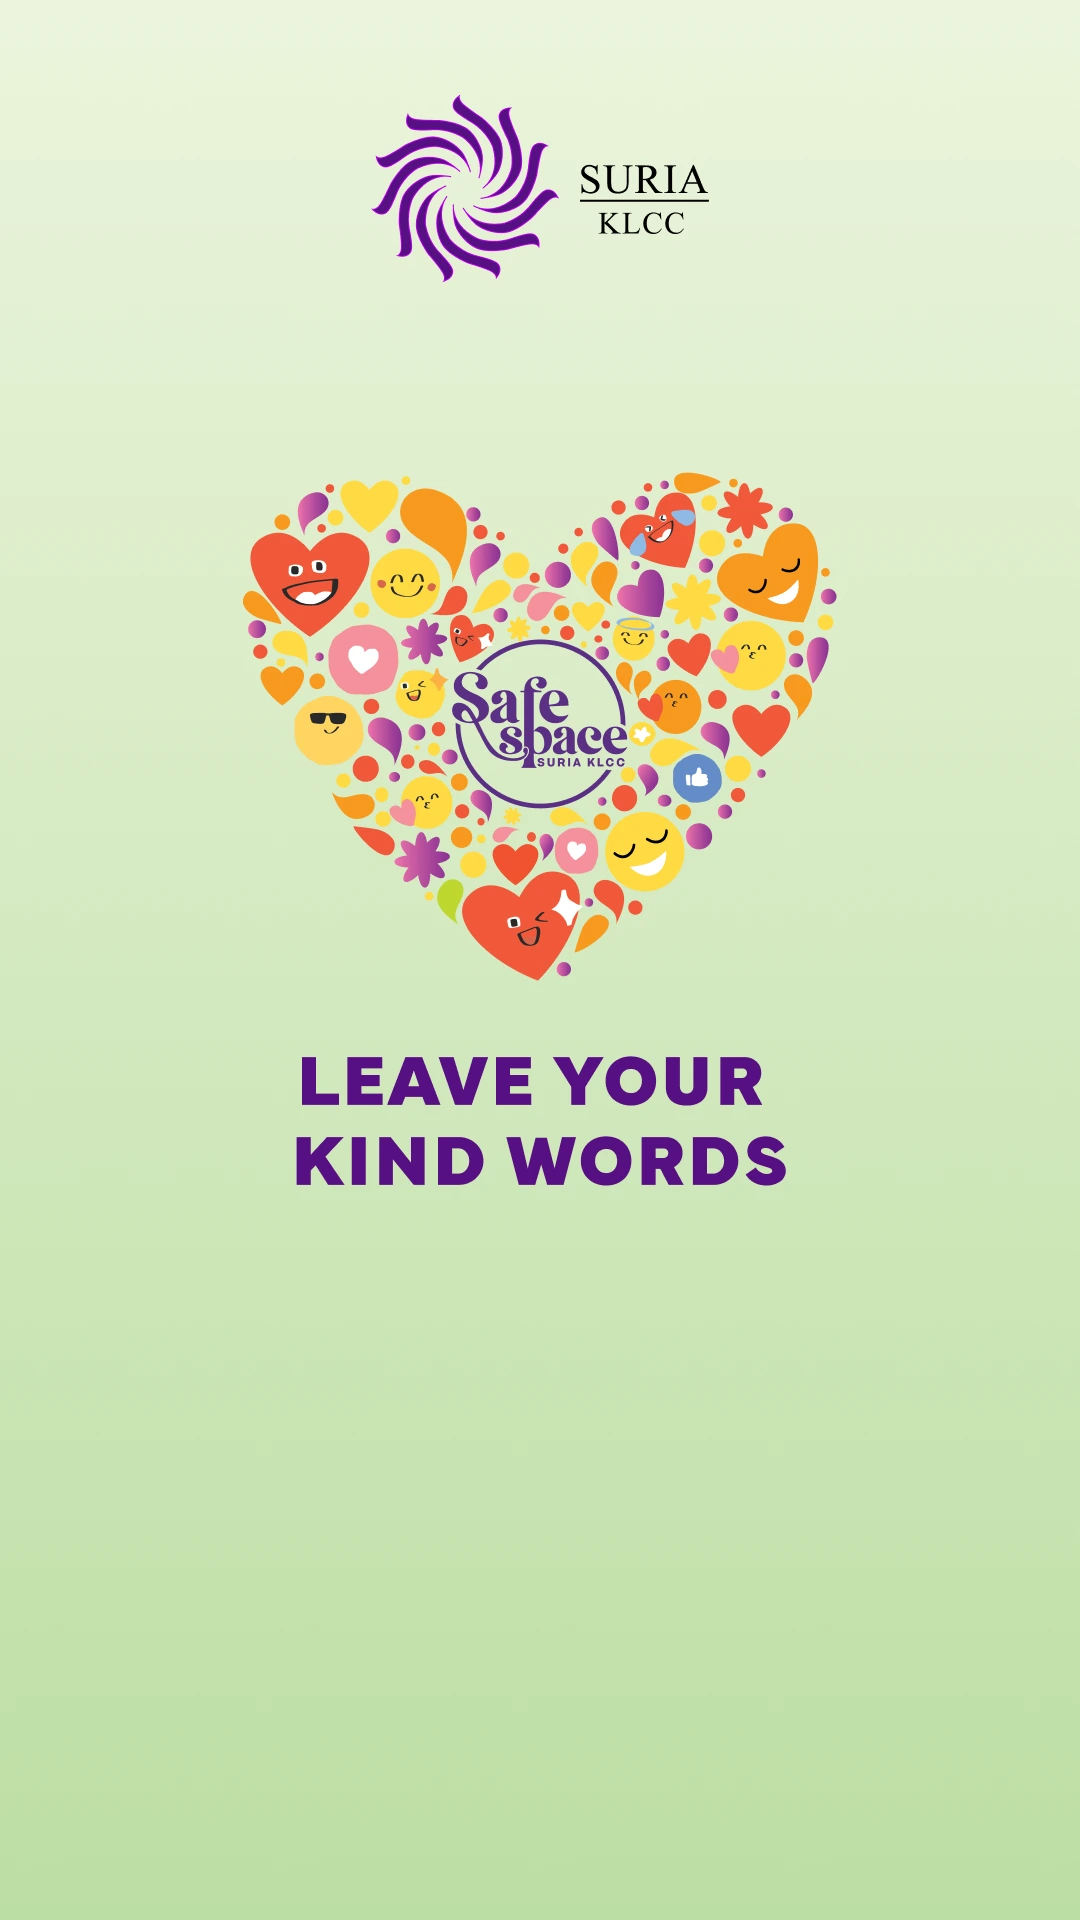
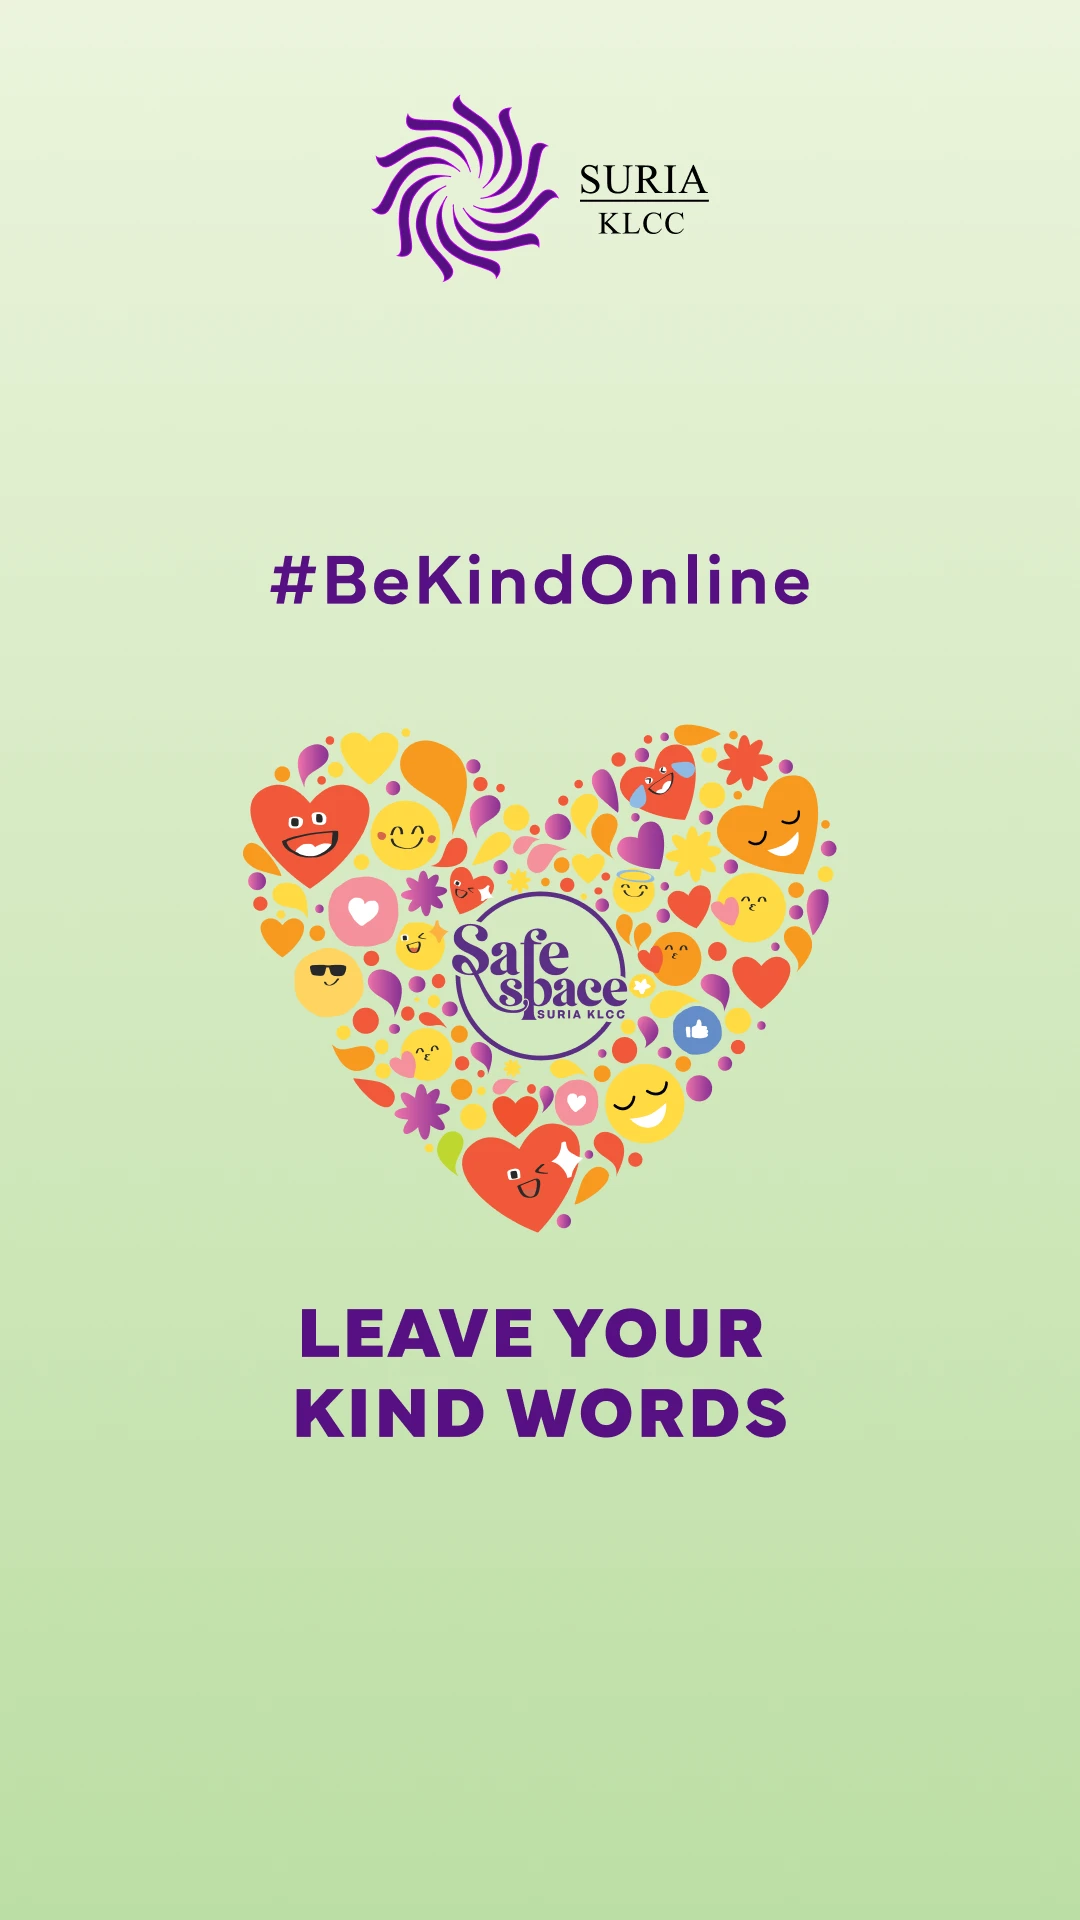
changes

Changed region(s): [[0.2139, 0.25, 0.7944, 0.75]]

diff --git a/resources/views/form.blade.php b/resources/views/form.blade.php
@@ -149,8 +149,8 @@
             </div>
             <div class="checkbox-container">
                 <input type="checkbox" id="promotions" name="promotions" required>
-                <label for="promotions"> I agree to receive marketing and promotional communications from SURIA KLCC via
-                    e-mail and text messages (including SMS/WhatsApp).</label>
+                <label for="promotions"> I have read and agree to the website <a
+                        href="https://www.suriaklcc.com.my/privacy-policy">privacy policy</a></label>
             </div>
             <button type="submit" class="submit-btn">Submit</button>
         </form>

diff --git a/resources/views/welcome.blade.php b/resources/views/welcome.blade.php
@@ -33,7 +33,7 @@
             border-radius: 5px;
             cursor: pointer;
             transition: background-color 0.3s;
-            margin-top: 300px;
+            margin-top: 480px;
         }
 
         .start-btn:hover {
@@ -51,7 +51,8 @@
             .start-btn {
                 font-size: 16px;
                 padding: 10px 40px;
-                margin-top: 300px
+                margin-top: 480px;
+
             }
         }
     </style>

diff --git a/database/seeders/QuoteSeeder.php b/database/seeders/QuoteSeeder.php
@@ -14,7 +14,7 @@ class QuoteSeeder extends Seeder
     public function run(): void
     {
         Quote::create([
-            'name' => 'Be Kind Online',
+            'name' => '#Be Kind Online',
         ]);
 
         Quote::create([

diff --git a/resources/views/end.blade.php b/resources/views/end.blade.php
@@ -49,7 +49,7 @@
         // Show the popup after 4 seconds
         setTimeout(function() {
             document.getElementById('popup').style.display = 'block';
-        }, 4000);
+        }, 2000);
     </script>
 
 </body>
